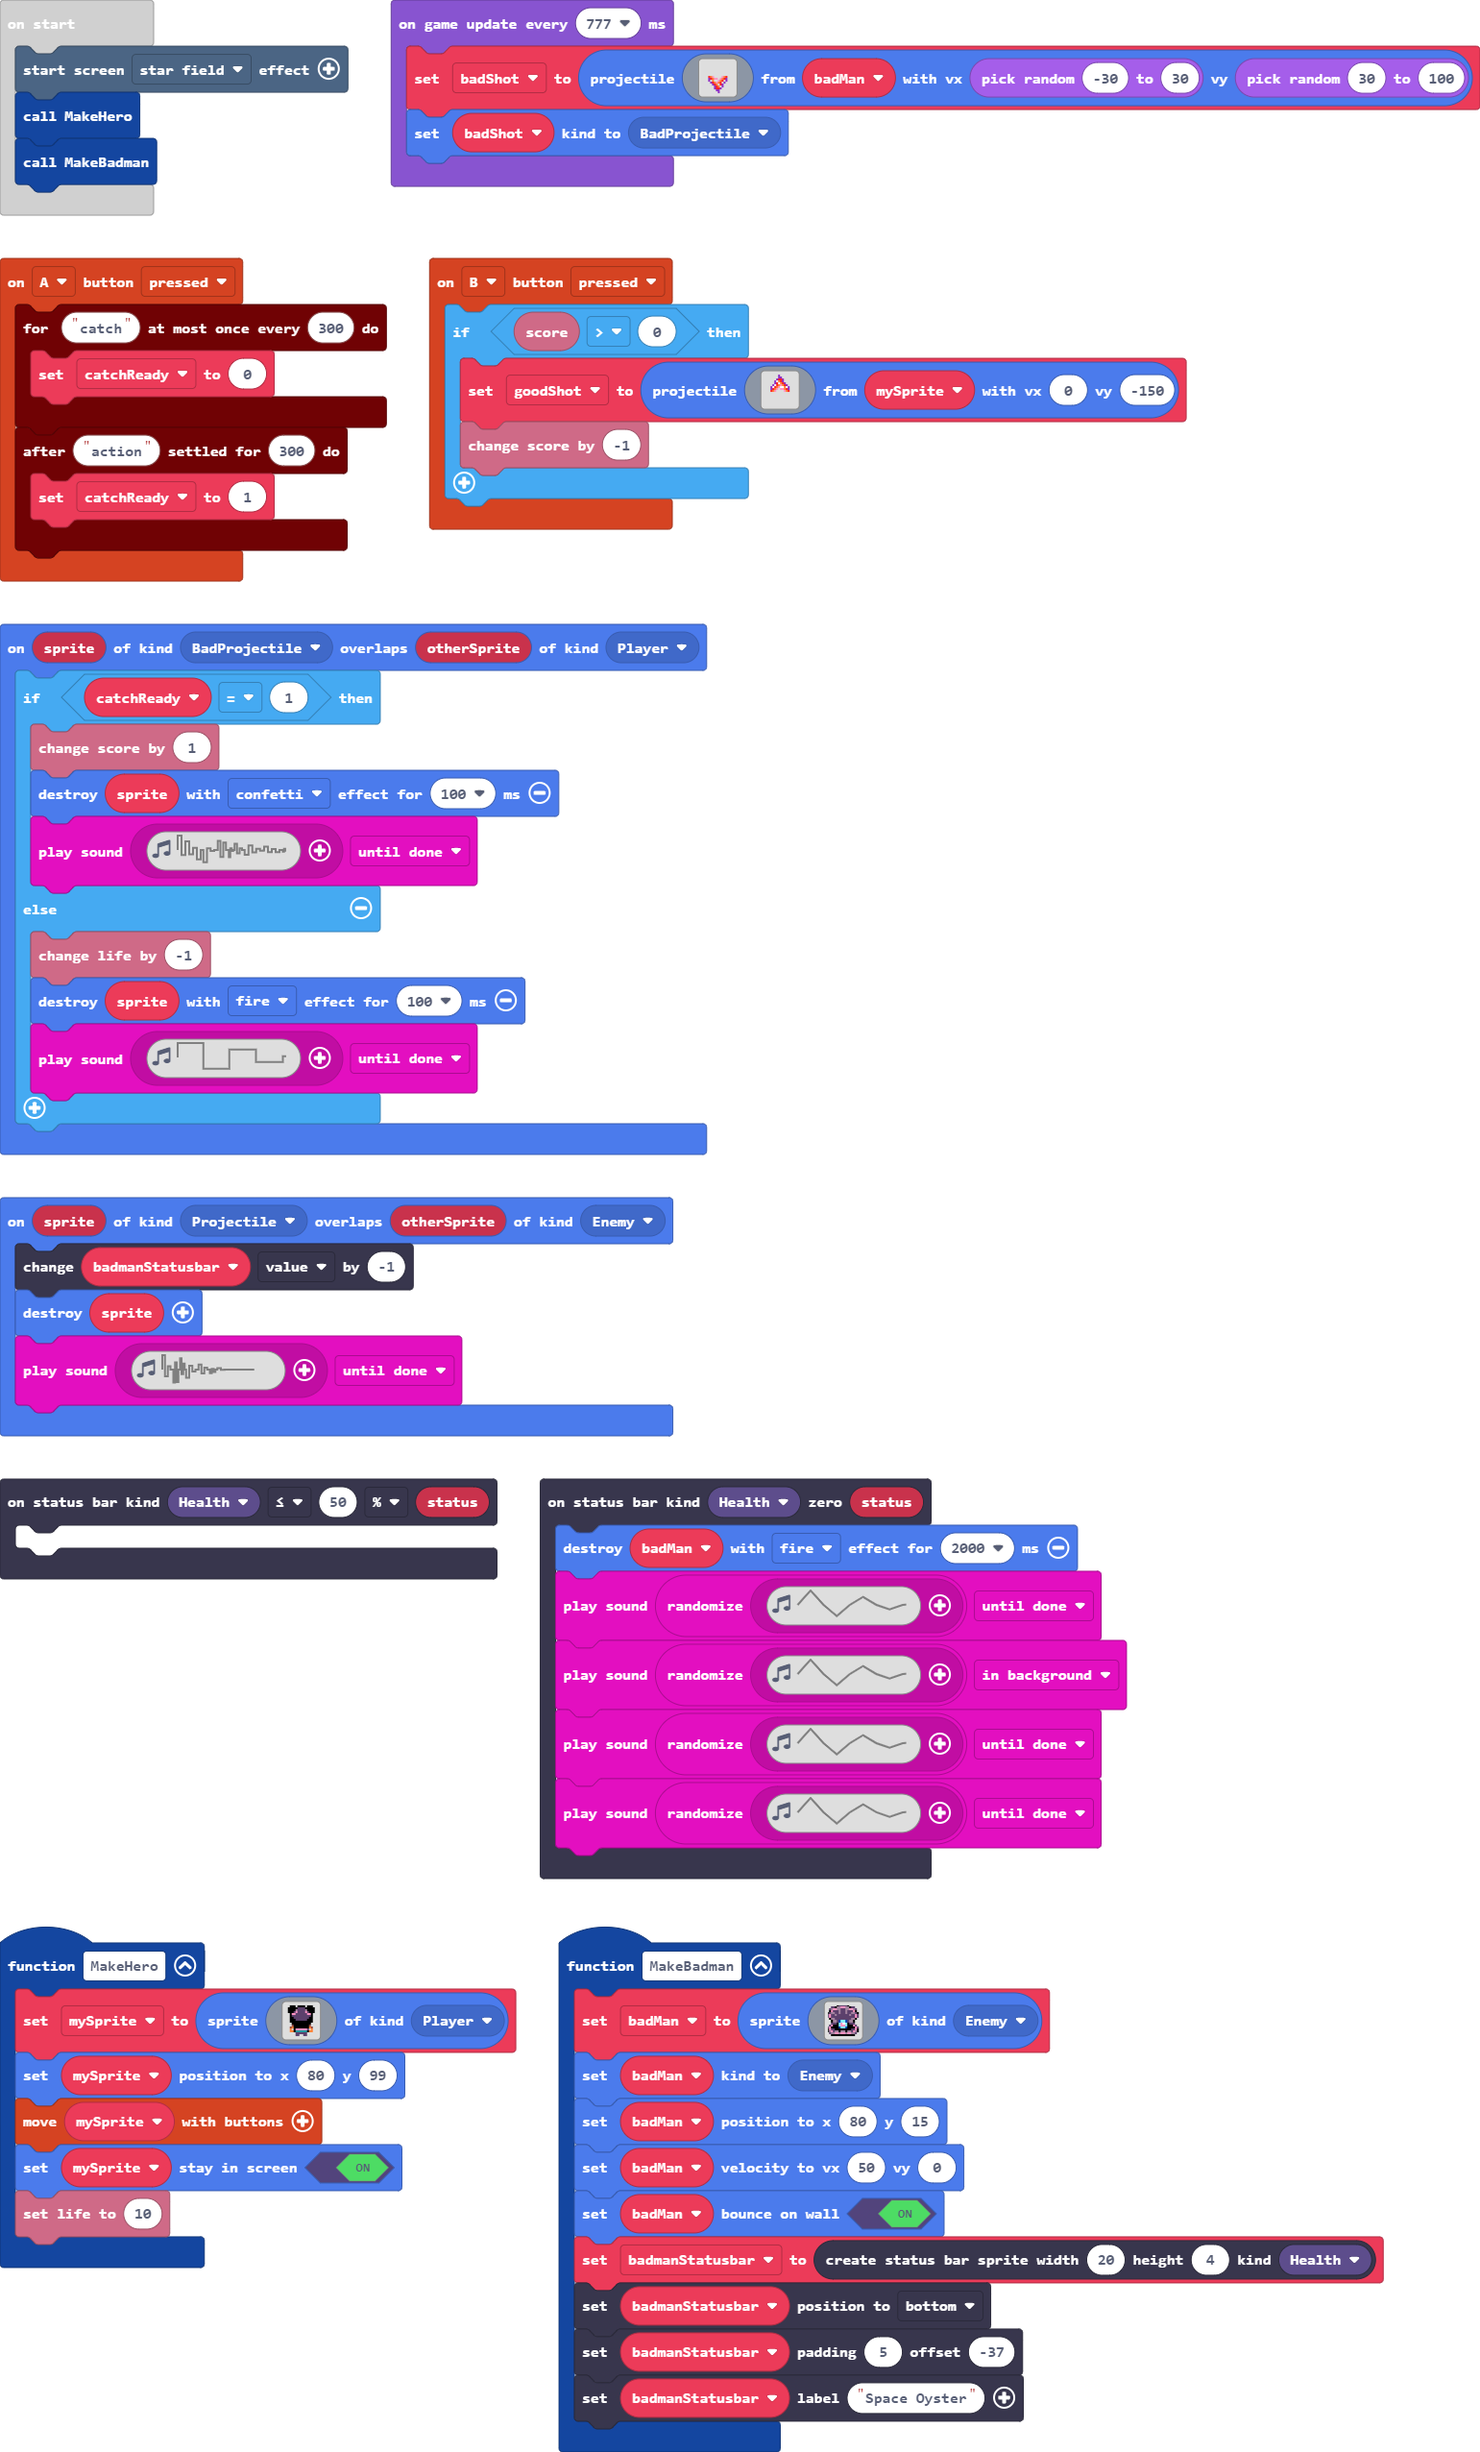
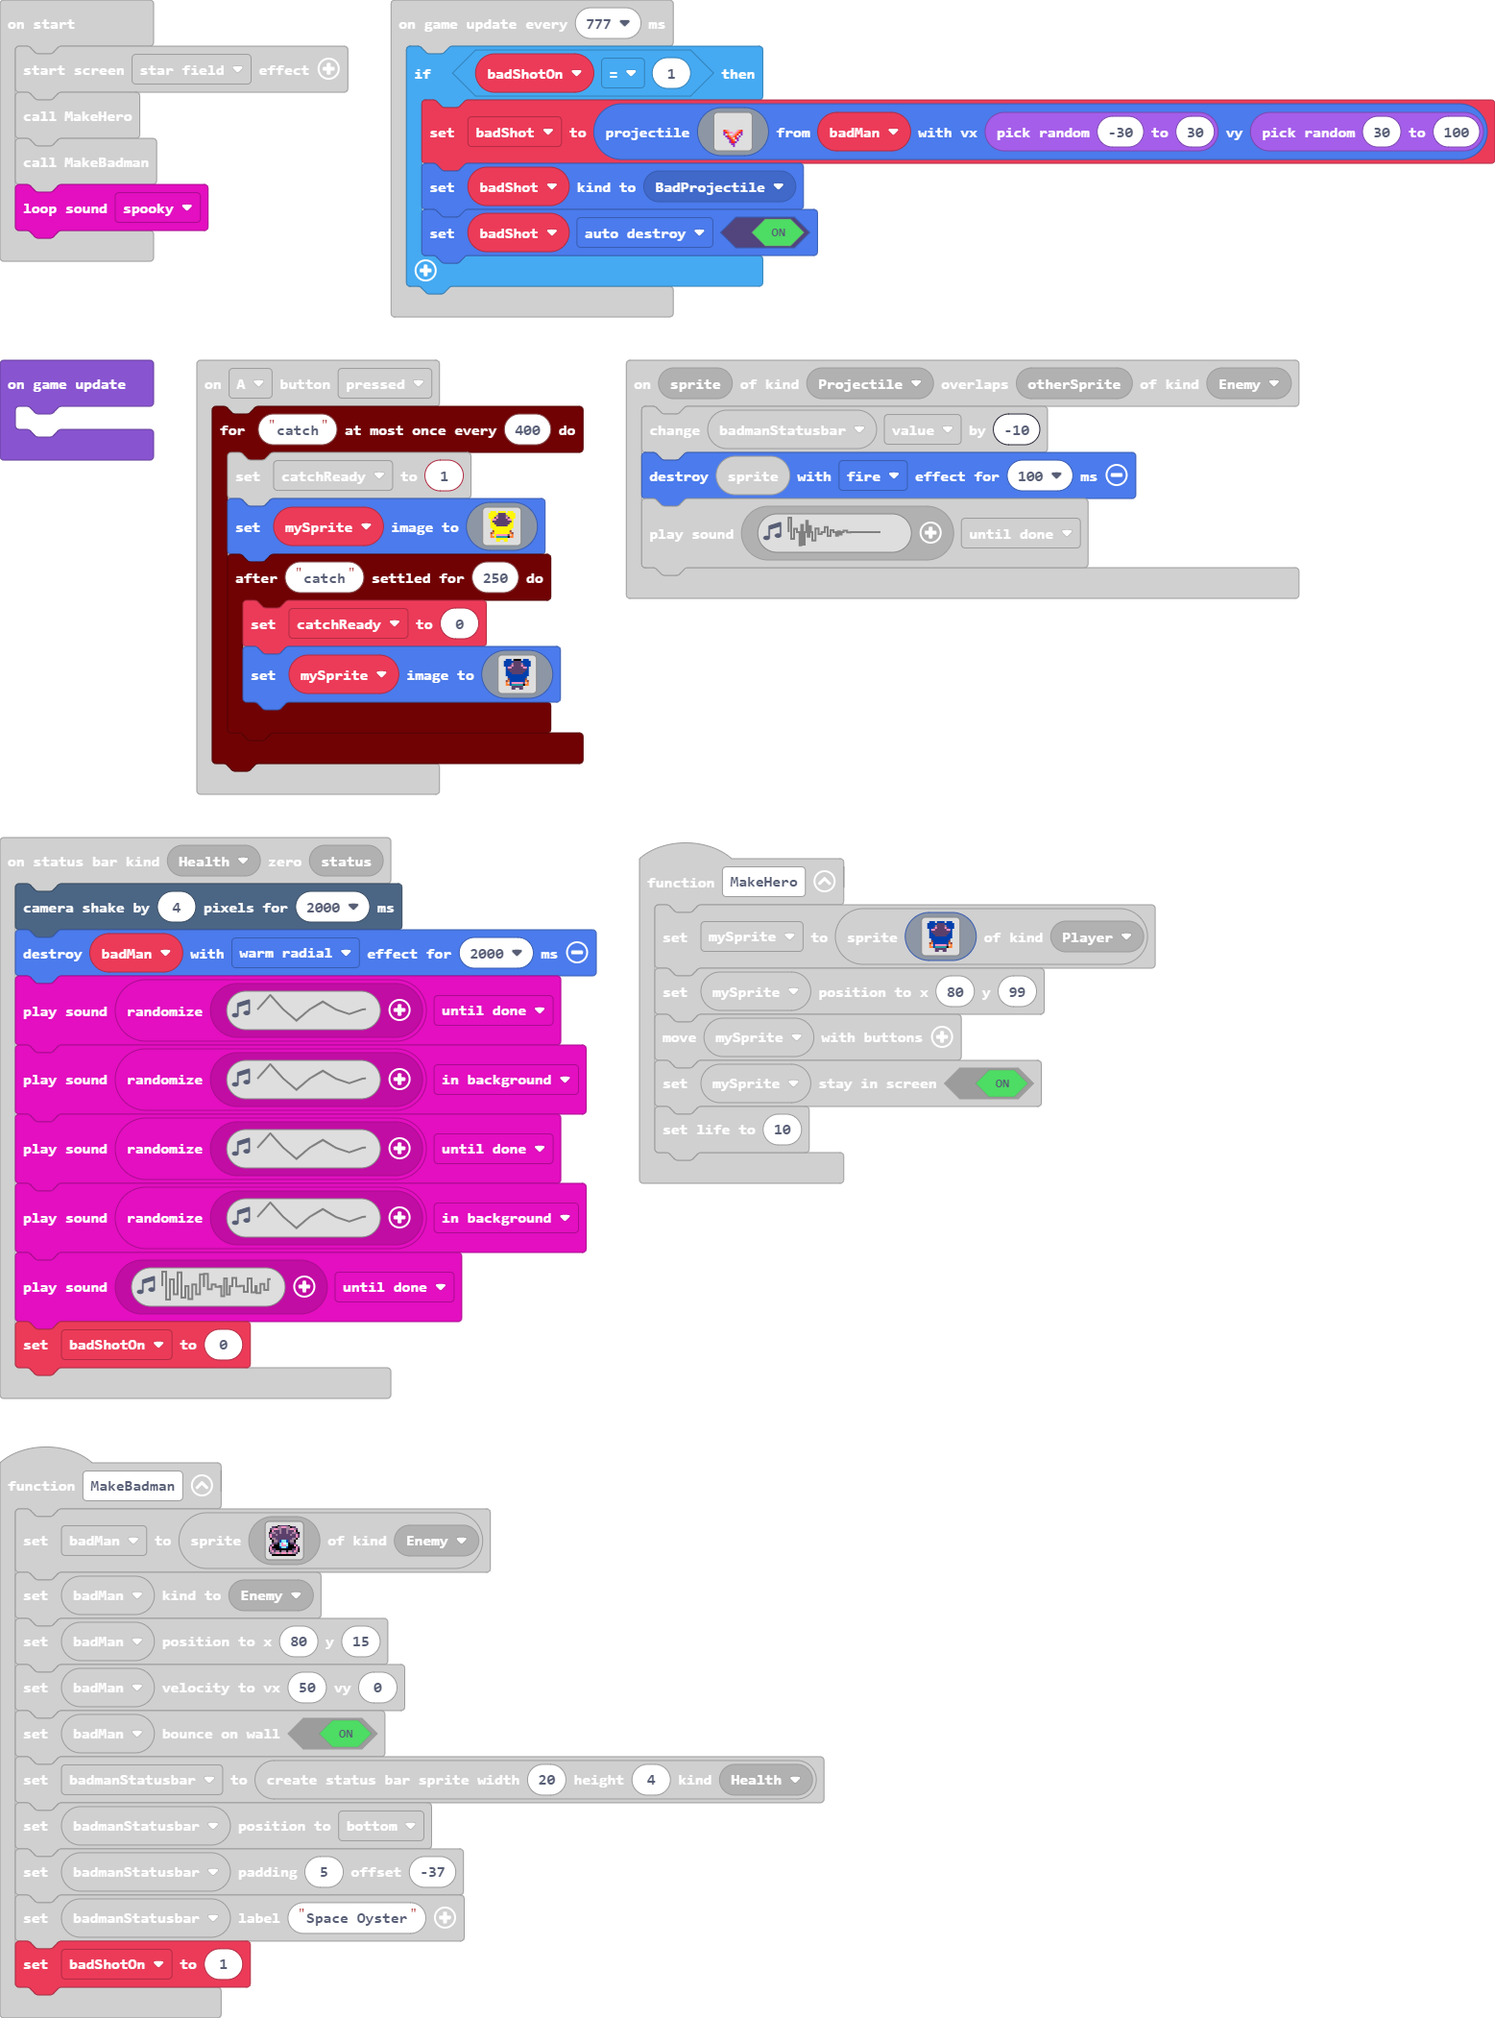
Update main.blocks, main.ts

diff --git a/main.ts b/main.ts
@@ -36,11 +36,47 @@ sprites.onOverlap(SpriteKind.BadProjectile, SpriteKind.Player, function (sprite,
     }
 })
 controller.A.onEvent(ControllerButtonEvent.Pressed, function () {
-    timer.throttle("catch", 300, function () {
-        catchReady = 0
-    })
-    timer.debounce("action", 300, function () {
+    timer.throttle("catch", 400, function () {
         catchReady = 1
+        mySprite.setImage(img`
+            . 5 5 5 . 5 5 5 5 . 5 5 5 . 
+            5 5 5 5 5 c c c c 5 5 5 5 5 
+            5 5 5 5 b c c c c b 5 5 5 5 
+            5 5 5 c 3 c c c c 3 c 5 5 5 
+            . 5 3 3 c c c c c c 3 3 5 . 
+            . 5 c c c c c c c c c c 5 . 
+            . 5 5 c c c c c c c c 5 5 . 
+            . 5 5 5 c c c c c c 5 5 5 . 
+            . 5 5 5 5 5 5 5 5 5 5 5 5 . 
+            . . 5 5 5 5 5 5 5 5 5 5 . . 
+            . . e 5 5 5 5 5 5 5 5 e . . 
+            . e 4 5 5 5 5 5 5 5 5 4 e . 
+            . 4 d 5 3 3 3 3 3 3 c d 4 . 
+            . 4 4 5 6 6 6 6 6 6 f 4 4 . 
+            . . . . 5 5 5 5 5 5 . . . . 
+            . . . . 5 5 . . 5 5 . . . . 
+            `)
+        timer.debounce("catch", 250, function () {
+            catchReady = 0
+            mySprite.setImage(img`
+                . 8 8 8 . f f f f . 8 8 8 . 
+                8 8 8 8 8 c c c c 8 8 8 8 8 
+                8 8 8 8 b c c c c b 8 8 8 8 
+                8 8 8 c 3 c c c c 3 c 8 8 8 
+                . 8 3 3 c c c c c c 3 3 8 . 
+                . 8 c c c c c c c c c c 8 . 
+                . 8 8 c c c c c c c c 8 8 . 
+                . 8 8 8 c c c c c c 8 8 8 . 
+                . 8 8 8 8 8 8 8 8 8 8 8 8 . 
+                . . 8 8 8 8 8 8 8 8 8 8 . . 
+                . . e 8 8 8 8 8 8 8 8 e . . 
+                . e 4 8 8 8 8 8 8 8 8 4 e . 
+                . 4 d 8 3 3 3 3 3 3 c d 4 . 
+                . 4 4 8 6 6 6 6 6 6 f 4 4 . 
+                . . . . c c c c c c . . . . 
+                . . . . c c . . c c . . . . 
+                `)
+        })
     })
 })
 statusbars.onStatusReached(StatusBarKind.Health, statusbars.StatusComparison.LTE, statusbars.ComparisonType.Percentage, 50, function (status) {
@@ -89,30 +125,34 @@ function MakeBadman () {
     badmanStatusbar.positionDirection(CollisionDirection.Bottom)
     badmanStatusbar.setOffsetPadding(-37, 5)
     badmanStatusbar.setLabel("Space Oyster")
+    badShotOn = 1
 }
 statusbars.onZero(StatusBarKind.Health, function (status) {
-    badMan.destroy(effects.fire, 2000)
+    scene.cameraShake(4, 2000)
+    badMan.destroy(effects.warmRadial, 2000)
     music.playSoundEffect(music.randomizeSound(music.createSoundEffect(WaveShape.Triangle, 608, 454, 255, 0, 688, SoundExpressionEffect.Vibrato, InterpolationCurve.Logarithmic)), SoundExpressionPlayMode.UntilDone)
     music.playSoundEffect(music.randomizeSound(music.createSoundEffect(WaveShape.Triangle, 608, 454, 255, 0, 688, SoundExpressionEffect.Vibrato, InterpolationCurve.Logarithmic)), SoundExpressionPlayMode.InBackground)
     music.playSoundEffect(music.randomizeSound(music.createSoundEffect(WaveShape.Triangle, 608, 454, 255, 0, 688, SoundExpressionEffect.Vibrato, InterpolationCurve.Logarithmic)), SoundExpressionPlayMode.UntilDone)
-    music.playSoundEffect(music.randomizeSound(music.createSoundEffect(WaveShape.Triangle, 608, 454, 255, 0, 688, SoundExpressionEffect.Vibrato, InterpolationCurve.Logarithmic)), SoundExpressionPlayMode.UntilDone)
+    music.playSoundEffect(music.randomizeSound(music.createSoundEffect(WaveShape.Triangle, 608, 454, 255, 0, 688, SoundExpressionEffect.Vibrato, InterpolationCurve.Logarithmic)), SoundExpressionPlayMode.InBackground)
+    music.playSoundEffect(music.createSoundEffect(WaveShape.Noise, 581, 176, 255, 85, 1000, SoundExpressionEffect.None, InterpolationCurve.Linear), SoundExpressionPlayMode.UntilDone)
+    badShotOn = 0
 })
 function MakeHero () {
     mySprite = sprites.create(img`
-        . f f f . f f f f . f f f . 
-        f f f f f c c c c f f f f f 
-        f f f f b c c c c b f f f f 
-        f f f c 3 c c c c 3 c f f f 
-        . f 3 3 c c c c c c 3 3 f . 
-        . f c c c c c c c c c c f . 
-        . f f c c c c c c c c f f . 
-        . f f f c c c c c c f f f . 
-        . f f f f f f f f f f f f . 
-        . . f f f f f f f f f f . . 
-        . . e f f f f f f f f e . . 
-        . e 4 f f f f f f f f 4 e . 
-        . 4 d f 3 3 3 3 3 3 c d 4 . 
-        . 4 4 f 6 6 6 6 6 6 f 4 4 . 
+        . 8 8 8 . 8 8 8 8 . 8 8 8 . 
+        8 8 8 8 8 c c c c 8 8 8 8 8 
+        8 8 8 8 b c c c c b 8 8 8 8 
+        8 8 8 c 3 c c c c 3 c 8 8 8 
+        . 8 3 3 c c c c c c 3 3 8 . 
+        . 8 c c c c c c c c c c 8 . 
+        . 8 8 c c c c c c c c 8 8 . 
+        . 8 8 8 c c c c c c 8 8 8 . 
+        . 8 8 8 8 8 8 8 8 8 8 8 8 . 
+        . . 8 8 8 8 8 8 8 8 8 8 . . 
+        . . e 8 8 8 8 8 8 8 8 e . . 
+        . e 4 8 8 8 8 8 8 8 8 4 e . 
+        . 4 d 8 3 3 3 3 3 3 c d 4 . 
+        . 4 4 8 6 6 6 6 6 6 f 4 4 . 
         . . . . c c c c c c . . . . 
         . . . . c c . . c c . . . . 
         `, SpriteKind.Player)
@@ -122,11 +162,12 @@ function MakeHero () {
     info.setLife(10)
 }
 sprites.onOverlap(SpriteKind.Projectile, SpriteKind.Enemy, function (sprite, otherSprite) {
-    badmanStatusbar.value += -1
-    sprite.destroy()
+    badmanStatusbar.value += -10
+    sprite.destroy(effects.fire, 100)
     music.playSoundEffect(music.createSoundEffect(WaveShape.Noise, 865, 1, 255, 0, 150, SoundExpressionEffect.None, InterpolationCurve.Linear), SoundExpressionPlayMode.UntilDone)
 })
 let badShot: Sprite = null
+let badShotOn = 0
 let badmanStatusbar: StatusBarSprite = null
 let badMan: Sprite = null
 let catchReady = 0
@@ -135,24 +176,31 @@ let goodShot: Sprite = null
 effects.starField.startScreenEffect()
 MakeHero()
 MakeBadman()
+music.spooky.loop()
+game.onUpdate(function () {
+	
+})
 game.onUpdateInterval(777, function () {
-    badShot = sprites.createProjectileFromSprite(img`
-        . . . . . . . . . . . . . . . . 
-        . . . . . . . . . . . . . . . . 
-        . . . . . . . . . . . . . . . . 
-        . . . . . . . . . . . . . . . . 
-        . . . . . . . . . . . . . . . . 
-        . . . . . . . . . . . . . . . . 
-        . . . . . . . . . . . . . . . . 
-        . . . 2 4 3 . . . . 3 4 2 . . . 
-        . . . a 2 4 3 3 . 3 4 2 a . . . 
-        . . . a . 4 . . 3 4 2 . a . . . 
-        . . . . a 2 4 3 4 2 . a . . . . 
-        . . . . . a 2 4 . 2 a . . . . . 
-        . . . . . . a 2 4 . a . . . . . 
-        . . . . . . a 2 2 a . . . . . . 
-        . . . . . . . a a . . . . . . . 
-        . . . . . . . . a . . . . . . . 
-        `, badMan, randint(-30, 30), randint(30, 100))
-    badShot.setKind(SpriteKind.BadProjectile)
+    if (badShotOn == 1) {
+        badShot = sprites.createProjectileFromSprite(img`
+            . . . . . . . . . . . . . . . . 
+            . . . . . . . . . . . . . . . . 
+            . . . . . . . . . . . . . . . . 
+            . . . . . . . . . . . . . . . . 
+            . . . . . . . . . . . . . . . . 
+            . . . . . . . . . . . . . . . . 
+            . . . . . . . . . . . . . . . . 
+            . . . 2 4 3 . . . . 3 4 2 . . . 
+            . . . a 2 4 3 3 . 3 4 2 a . . . 
+            . . . a . 4 . . 3 4 2 . a . . . 
+            . . . . a 2 4 3 4 2 . a . . . . 
+            . . . . . a 2 4 . 2 a . . . . . 
+            . . . . . . a 2 4 . a . . . . . 
+            . . . . . . a 2 2 a . . . . . . 
+            . . . . . . . a a . . . . . . . 
+            . . . . . . . . a . . . . . . . 
+            `, badMan, randint(-30, 30), randint(30, 100))
+        badShot.setKind(SpriteKind.BadProjectile)
+        badShot.setFlag(SpriteFlag.AutoDestroy, true)
+    }
 })
